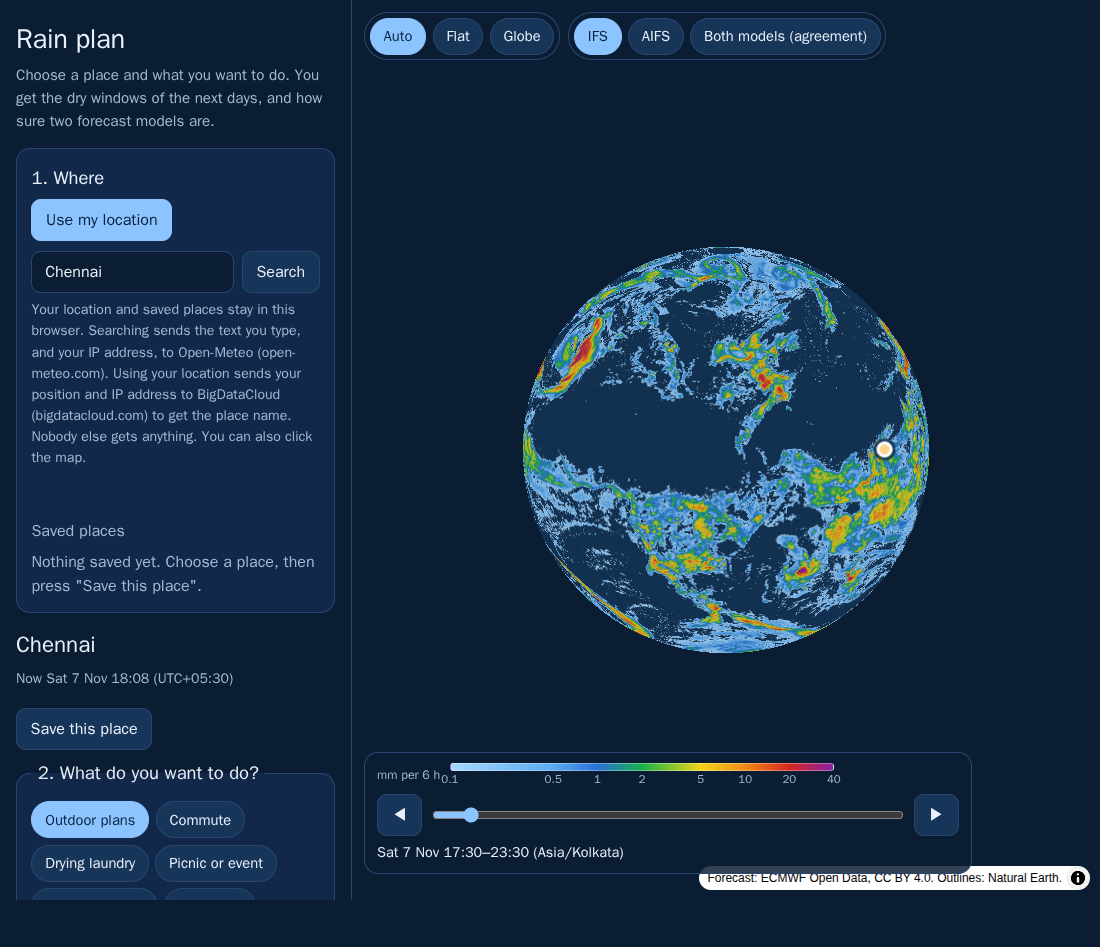
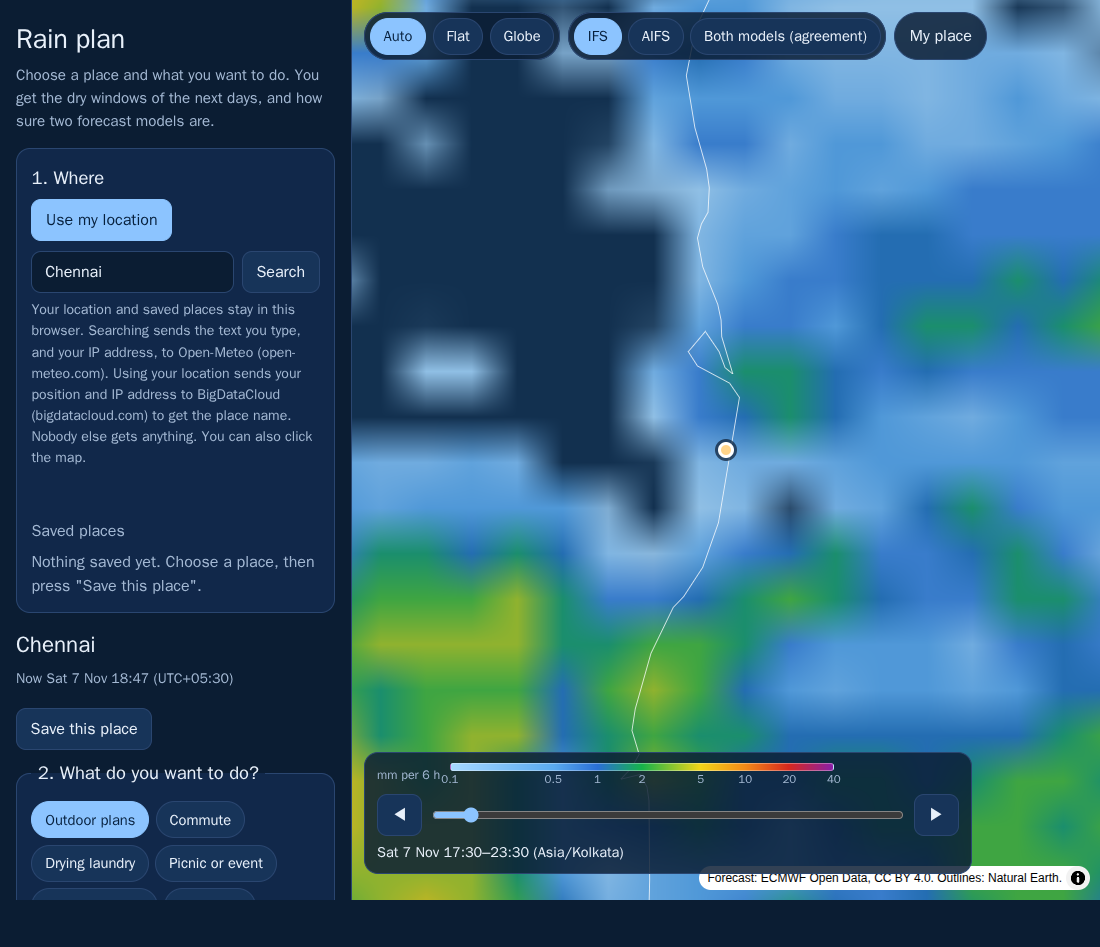
Step 9.3c-0: place name works with the real service, close fly-in by place kind, My place button, rotation off
- Reverse geocoder: the final host api-bdc.io (the documented host redirects to it and the policy blocked that, E030); shorter name;
  verified once with the REAL service in a real browser (Edge): "Rasipuram, Tamil Nadu, India".
- Fly-in lands at zoom 8 for the device location and 7 for a searched/saved/addressed place; a My place button recentres; rotation and
  tilt are off; a drag-inertia moveend no longer ends a new flight early.
- Tests: Node 53 passed, Python 105 passed; browser checks 9 of 9 in Chromium (mock) and in Edge (real Open-Meteo and BigDataCloud).
- Not done yet: the sharp, smooth rain at zoom 7-8 (PLAN-009 steps 9.3c-1 to 9.3c-3).

Claude-Session: https://claude.ai/code/session_01TFnA2TctcQwhqV8Sjabs29

diff --git a/frontend/src/mapcontrols.js b/frontend/src/mapcontrols.js
@@ -47,12 +47,15 @@ function swatch(colour) {
 }
 
 /**
- * Build the tools inside `root`. `handlers` = { onMode(id), onModel(id), onStep(step) }.
- * Returns { update({ model, mode, steps, step, when, note, legendKind }) }.
+ * Build the tools inside `root`. `handlers` = { onMode(id), onModel(id), onStep(step), onMyPlace() }.
+ * Returns { update({ model, mode, steps, step, when, note, legendKind, hasPlace }) }.
  */
 export function createControls({ root, cfg, manifest, options, selectedModel, handlers }) {
   const view = segmented('map-mode', 'Map view', MODES, 'auto', handlers.onMode);
   const model = segmented('map-model', 'Model shown on the map', options, selectedModel, handlers.onModel);
+  const myPlace = el('button', { class: 'my-place', text: 'My place', attrs: { type: 'button', 'aria-label': 'Fly back to the chosen place' } });
+  myPlace.disabled = true;
+  myPlace.addEventListener('click', () => handlers.onMyPlace());
   const note = el('p', { class: 'map-note', attrs: { role: 'status' } });
   const legend = el('ul', { class: 'legend', attrs: { 'aria-label': 'Map legend' } });
   const prev = el('button', { text: '◀', attrs: { type: 'button', 'aria-label': 'Previous 6-hour block' } });
@@ -67,7 +70,7 @@ export function createControls({ root, cfg, manifest, options, selectedModel, ha
   prev.addEventListener('click', () => move(-1));
   next.addEventListener('click', () => move(1));
   range.addEventListener('input', () => handlers.onStep(steps[Number(range.value)]));
-  fill(root, [el('div', { class: 'map-top' }, [view.node, model.node]),
+  fill(root, [el('div', { class: 'map-top' }, [view.node, model.node, myPlace]),
     el('div', { class: 'map-bottom' }, [note, legend, el('div', { class: 'timebar' }, [prev, range, next]), when])]);
 
   return {
@@ -78,6 +81,7 @@ export function createControls({ root, cfg, manifest, options, selectedModel, ha
       range.value = String(i);
       range.dataset.step = String(s.step);
       range.setAttribute('aria-valuetext', s.when);
+      myPlace.disabled = !s.hasPlace;
       prev.disabled = i === 0;
       next.disabled = i === steps.length - 1;
       when.textContent = s.when;

diff --git a/frontend/src/mapapp.js b/frontend/src/mapapp.js
@@ -29,13 +29,18 @@ export async function createMapApp(o) {
     onMode: (mode) => { state.mode = mode; view.setMode(mode); refresh(); },
     onModel: (model) => { state.model = model; refresh(); },
     onStep: (step) => setStep(step),
+    onMyPlace: () => {
+      if (!state.place) return;
+      const reduced = prefersReducedMotion((q) => window.matchMedia(q));
+      view.fly(state.place.lat, state.place.lon, flightPlan(reduced, cfg.map, state.place.source));
+    },
   } });
 
   async function refresh() {
     const choice = chooseFrame(manifest, state.model, state.step, labels);
     container.dataset.model = state.model ?? '';
     container.dataset.frame = choice.kind ? `${choice.kind}_${state.step}` : 'none';
-    controls.update({ steps, step: state.step, model: state.model, mode: state.mode, when: whenText(), note: choice.note, legendKind: choice.kind === 'agreement' ? 'agreement' : choice.kind ? 'rain' : null });
+    controls.update({ steps, step: state.step, model: state.model, mode: state.mode, when: whenText(), note: choice.note, legendKind: choice.kind === 'agreement' ? 'agreement' : choice.kind ? 'rain' : null, hasPlace: state.hasPlace });
     const url = choice.kind ? frameUrl(base, manifest, choice.kind, state.step) : null;
     if (url === state.url) return; // the picture is already there: do not load it again
     state.url = url;
@@ -53,8 +58,13 @@ export async function createMapApp(o) {
     state.hasPlace = true;
     view.showPlace(place.lat, place.lon);
     const reduced = prefersReducedMotion((q) => window.matchMedia(q));
-    if (shouldFly(source)) view.fly(place.lat, place.lon, flightPlan(reduced, cfg.map));
-    else view.recentre(place.lat, place.lon, !reduced);
+    if (shouldFly(source)) {
+      state.place = { ...place, source };
+      view.fly(place.lat, place.lon, flightPlan(reduced, cfg.map, source));
+    } else {
+      state.place = { ...place, source: state.place?.source ?? 'search' };
+      view.recentre(place.lat, place.lon, !reduced);
+    }
     refresh();
   }
 

diff --git a/frontend/src/mapview.js b/frontend/src/mapview.js
@@ -16,6 +16,7 @@ export function createMapView({ container, cfg, manifest, onClick, onProblem }) 
   const state = { mode: 'auto', marker: null };
   const map = new MapLibreMap({
     container, center: mapCfg.start.center, zoom: mapCfg.start.zoom, minZoom: mapCfg.min_zoom, maxZoom: mapCfg.max_zoom, renderWorldCopies: false,
+    dragRotate: false, pitchWithRotate: false, maxPitch: 0, touchPitch: false, // a weather map stays north-up and flat on the screen
     attributionControl: { compact: true, customAttribution: `Forecast: ${escapeHtml(source.name)}, ${escapeHtml(source.licence)}. Outlines: Natural Earth.` },
     style: { version: 8, projection: projectionSpec('auto', mapCfg), sources: {}, layers: [{ id: 'sea', type: 'background', paint: { 'background-color': mapCfg.sea_colour } }] },
   });
@@ -28,6 +29,8 @@ export function createMapView({ container, cfg, manifest, onClick, onProblem }) 
     data.center = `${c.lng.toFixed(4)},${c.lat.toFixed(4)}`;
     data.effective = effectiveView(state.mode, map.getZoom(), mapCfg);
   };
+  map.touchZoomRotate.disableRotation();
+  map.keyboard.disableRotation();
   map.on('move', reflect);
   map.on('error', (e) => onProblem(e.error ?? e));
   map.on('click', (e) => onClick(e.lngLat.lat, e.lngLat.lng));
@@ -79,6 +82,7 @@ export function createMapView({ container, cfg, manifest, onClick, onProblem }) 
 
   /** Fly to the place (or jump, with reduced motion); `plan` is from flightPlan(). data-flying says when the move is over. */
   function fly(lat, lon, plan) {
+    map.stop(); // end any drag inertia or earlier flight first, so its 'moveend' cannot mark THIS flight as finished
     data.flying = 'true';
     map.once('moveend', () => { data.flying = 'false'; reflect(); });
     const target = { center: [lon, lat], zoom: plan.zoom };

diff --git a/frontend/src/reverse.js b/frontend/src/reverse.js
@@ -10,10 +10,19 @@ export function reverseUrl(cfg, lat, lon) {
 
 const text = (value) => (typeof value === 'string' ? cleanName(value) : null);
 
-/** Reply -> 'Rasipuram, Tamil Nadu, India' (the most local name, region, country; empty or repeated parts left out), or null. */
+const MAX_COUNTRY_CHARS = 20;
+
+/** The country as a short text: its name, or its code when the name is long ("United Kingdom of Great Britain and Northern Ireland" -> "GB"). */
+function country(data) {
+  const name = text(data.countryName);
+  if (name && name.length <= MAX_COUNTRY_CHARS) return name;
+  return typeof data.countryCode === 'string' && /^[A-Za-z]{2,3}$/.test(data.countryCode) ? data.countryCode.toUpperCase() : name;
+}
+
+/** Reply -> 'Rasipuram, Tamil Nadu, India' (local name, city, region, country; empty or repeated parts left out), or null. */
 export function parseReverse(data) {
   if (data === null || typeof data !== 'object') return null;
-  const parts = [text(data.locality) ?? text(data.city), text(data.principalSubdivision), text(data.countryName)].filter(Boolean);
+  const parts = [text(data.locality), text(data.city), text(data.principalSubdivision), country(data)].filter(Boolean);
   const unique = parts.filter((p, i) => parts.findIndex((q) => q.toLowerCase() === p.toLowerCase()) === i);
   return unique.length ? cleanName(unique.join(', ')) : null;
 }

diff --git a/frontend/src/style.css b/frontend/src/style.css
@@ -100,6 +100,7 @@ footer { padding-top: .5rem; }
 /* map tools (floating on the map) */
 .map-tools { position: absolute; inset: 0; pointer-events: none; z-index: 2; }
 .map-top { position: absolute; top: .75rem; left: .75rem; right: 4rem; display: flex; gap: .5rem; flex-wrap: wrap; pointer-events: auto; }
+.my-place { background: var(--glass); border-radius: 999px; padding: .4rem .9rem; }
 .map-top .seg { background: var(--glass); padding: .3rem; border-radius: 999px; border: 1px solid var(--line); margin: 0; min-width: 0; }
 .map-bottom { position: absolute; left: .75rem; bottom: 1.6rem; width: min(38rem, calc(100% - 1.5rem)); display: flex; flex-direction: column; gap: .4rem; pointer-events: auto; background: var(--glass); border: 1px solid var(--line); border-radius: 14px; padding: .6rem .75rem; }
 .map-note { margin: 0; color: #ffd48a; font-size: .88rem; }

diff --git a/frontend/src/mapstate.js b/frontend/src/mapstate.js
@@ -68,9 +68,9 @@ export function effectiveView(mode, zoom, cfg) {
   return zoom >= cfg.fly.zoom ? 'flat' : 'morph';
 }
 
-/** How to move to a chosen place: animated flight, or an instant jump when the system asks for reduced motion. */
-export function flightPlan(reducedMotion, cfg) {
-  return { zoom: cfg.fly.zoom, duration: reducedMotion ? 0 : cfg.fly.duration_ms, animate: !reducedMotion };
+/** How to move to a chosen place: animated flight to the zoom for that kind of place, or an instant jump when the system asks for reduced motion. */
+export function flightPlan(reducedMotion, cfg, source) {
+  return { zoom: cfg.fly.zoom_by_source?.[source] ?? cfg.fly.zoom, duration: reducedMotion ? 0 : cfg.fly.duration_ms, animate: !reducedMotion };
 }
 
 export function prefersReducedMotion(matchMedia) {

diff --git a/docs/plans/PLAN-009.md b/docs/plans/PLAN-009.md
@@ -1,0 +1,68 @@
+# PLAN-009 — Rain drawn in the browser at screen sharpness; a close fly-in; the place name fixed (steps 9.3c-0 to 9.3c-4)
+
+- Drafted: 2026-11-07 13:09 UTC (`date -u` read while drafting)
+- Session: `3e56a452-e5f8-4bb9-b353-63bad43748f4`; first prompt 2026-11-06T18:19:13Z; deadline 2026-11-09T18:19:13Z; about 18.8 h used, about 53.2 h left
+- Approval: **approved by the user through plan mode, 2026-11-07 13:12 UTC** (written into this file at that time, clock read by the script).
+- **Replaces:** PLAN-008 assumption A19 ("smooth up-sampling of a 1440 px picture is enough at every zoom") and step 9.3b-3. Steps 9.3b-1 and 9.3b-2 stay done. PLAN-007 steps 9.4 (browser checks in three engines, real GPU) and 9.5 (design pass) stay as written and follow this plan.
+
+## Context (why this plan exists)
+- **User feedback, 2026-11-07 ~13:05 UTC (their own Firefox, with a screenshot):** "when i zoom in it still is showing in blocks not smooth"; "the 2d (flat) is not working, because when i use the location it has to be accurate and zoom to that location"; "do u think people will like it? NOPE they will not". The screenshot also shows the map drawing in their Firefox, the name box still saying "Your location", and the marker off-centre.
+- **What I checked before planning (read-only/measured today, ERRORS E030 and E031):**
+  1. At city zoom (7) in Edge with the real GPU: the rain picture is smooth but blurry with stair-stepped dry edges; the agreement picture is a hard-edged 3-class picture and shows blocks. One 0.25 degree cell (about 28 km) is about 45 screen pixels wide at zoom 7; **no pre-made picture can look sharp at that magnification**.
+  2. The fly-in ends at zoom 4.5 (regional). The user then scroll-zooms by hand, which zooms around the mouse and moves the marker off-centre; that is why the place did not look "accurate".
+  3. A real call to the reverse geocoder: `api.bigdatacloud.net` answers `307` to `api-bdc.io`, which my security policy blocks, so the name never appears (my tests used a mock). The redirect target works and returns CORS `*`.
+  4. The default time-bar block is correct in Edge (`ifs_30`); the user's screenshot at Fri 6 Nov 12:00-18:00 is not reproduced (they probably moved the slider).
+- **Intended outcome:** when a person looks at their place, the rain is smooth and sharp at any zoom, accurate to the model's own cell values; "Use my location" lands close on the place and names it; the pre-made pictures remain for the globe and the wide view.
+
+## Design (what is built, in plain words)
+- **Browser-side drawing ("live layer")** for the flat map from a configured zoom (about 4.5) upwards: for the part of the world on screen, the browser reads the **exact cell values from the point tiles it already uses for the plan** (about 7 kB per 4 degree tile, a handful to a few dozen tiles, cached), interpolates them smoothly between cell centres (bicubic, clamped so it never overshoots) at screen resolution, and colours each pixel with a **continuous colour ramp** (no bands) with a soft edge where rain starts. The picture is handed to MapLibre as an image source and redrawn when the view, model or block changes. While it is being drawn, the pre-made picture stays visible (no gaps).
+- **Agreement** is drawn the same way: each model's value becomes a soft "wet" strength around the plan's threshold; blue = both wet, orange = they disagree, strength = opacity; edges are smooth instead of blocky.
+- **Honest limit:** the forecast cells are 0.25 degree; the live layer shows the models' own values smoothly between cell centres and creates no detail that the models do not have. At cell centres it equals the stored value exactly (tested).
+- **Fly-in:** by source: device location zoom 8 (about 300 km across), search / saved place / address zoom 7; a click on the map recentres only. A "My place" button on the map flies back to the chosen place. Rotation and tilt are switched off (they only confuse a weather map).
+- **Not chosen:** a WebGL shader layer (faster but a lot more code), vector contour tiles (server work and size), bigger pre-made pictures (4096 px frames would be several MB each), 50 m outlines changes (already done).
+
+## Assumptions
+- **A22:** the browser can interpolate and colour a half-resolution viewport (about 500 x 350 pixels, each stretched to 2 screen pixels) in well under 150 ms in the user's Firefox and in Edge. To be measured in 9.3c-3; if too slow the pixel count is reduced (config), not the method.
+- **A23:** the tiles needed for the view stay below about 150 per render at the live zoom limit (4.5: about 8 x 5 = 40 tiles, about 280 kB, cached after the first view); above the limit the pre-made picture is used.
+- **A24:** MapLibre 6.16's image source (`updateImage` with a blob URL, same-origin, `img-src blob:` already allowed) switches pictures without flicker when the new picture is loaded before the old is hidden; to be checked in the real browsers.
+
+## Steps (one at a time; Docker tests, line counts and root check before every commit; every step has a security note)
+
+**9.3c-0 Quick fixes the user saw.** (a) `config/frontend.json` `reverse_geocoder.url` -> `https://api-bdc.io/data/reverse-geocode-client`; `config/headers.conf` connect-src host the same; the config-consistency test keeps them equal; privacy line still names BigDataCloud. (b) `frontend/src/reverse.js` `parseReverse`: local name, city, region, and the country CODE when the country name is long (London: "City of Westminster, London, England, GB"). (c) `frontend/src/mapstate.js` `flightPlan(reduced, cfg, source)` with `fly.zoom_by_source` in config; `max_zoom` 10; `frontend/src/mapview.js`: rotation and tilt off (`dragRotate: false`, `maxPitch: 0`, touch rotation off); a "My place" button (in `mapcontrols.js`) that flies back to the chosen place. (d) tests for all of it, and ONE real call to the reverse geocoder from a real browser (Chromium Docker and Edge) with a public test coordinate, recorded.
+DONE-CHECK: Docker `tests` and `frontend-tests` pass; the real-browser run shows the name in the box; the fly-in ends at zoom 8 on the place within 0.01 degrees (read from `data-zoom`/`data-center`); screenshots.
+Security note: the host in the policy is replaced, not added (still two outside hosts); a test fails if the policy and the config differ.
+
+**9.3c-1 The drawing core (pure functions, tested).** New `frontend/src/live.js`: bicubic (Catmull-Rom) sampling of a cell-value accessor with clamping to the neighbouring range, Mercator pixel -> latitude/longitude, a continuous colour look-up table from the colour stops in `config/frontend.json` (log scale, soft edge from `fade_from_mm`), and the soft agreement. Settings (soft width, ramp resolution, canvas scale) in `config/frontend.json` `map.live`.
+DONE-CHECK: Node tests: at a cell centre the picture value equals the stored value exactly; a linear ramp is reproduced; no value outside the range of its neighbours; the date-line wrap; north at the top and the Mercator rows at the right latitudes (compared with Python numbers from `scripts/make_js_fixtures.py`); colour table edges equal the stops; agreement strength is 0 for dry-dry, 1 for wet-wet, split for one wet; mutation checks as in earlier steps.
+Security note: pure functions, no I/O.
+
+**9.3c-2 The data window.** New `frontend/src/livedata.js`: which tiles cover the visible bounds (`tiles.js` `locate`/`tileUrl`), fetch and decode them with the existing size-limited reader and cache (`decodeTile`, the page's tile cache), a value accessor for one layer (model + block, via the manifest's `layer_offset` and steps), a limit on tiles per render, a stale-render guard.
+DONE-CHECK: Node tests with the Python-made fixture tiles (cell values equal Python's); a view crossing a tile edge; too many tiles -> "use the picture"; failed tile -> clean fallback.
+Security note: tiles stay untrusted (the existing header, length and size checks apply); no new host.
+
+**9.3c-3 Map integration.** `frontend/src/mapview.js`: a second image layer (the live picture) below the outlines, shown only in the flat view above the live zoom; updated after `moveend` (debounced), model, block and place changes; the pre-made picture stays until the new live picture has loaded; blob URLs are revoked. `frontend/src/mapapp.js`: connects view changes to `livedata` + `live`; shows a small "sharpening..." state in `data-` attributes for tests. The legend, attribution and time bar are unchanged; the page's smoothing line is updated.
+DONE-CHECK: `frontend-build`; in Edge (real GPU) and Chromium (software) the render time per view is measured and printed (target under 150 ms), screenshots at zoom 5, 7 and 8 of London and Chennai for IFS, AIFS and the agreement; no console or policy error; the user's Firefox look.
+Security note: blob URLs of our own canvas only; `img-src blob:` is already in the policy.
+
+**9.3c-4 Browser checks and records.** Add scenarios to `frontend/tools/browser_checks.mjs` (live layer on at close zoom, off when zoomed out and in globe mode, falls back when a tile fails, My place button, rotation off), run in the three engines (Firefox and WebKit in Docker have no WebGL, so they test the message path; Edge and Chromium test the map), Edge screenshots, load timing; PROGRESS, DECISIONS (D32 corrected, new D35), E027/E030/E031 results, README, SECURITY; commit. The user looks at http://localhost:8080 in their Firefox.
+DONE-CHECK: all browser scenarios pass; the user's verdict recorded.
+
+(PLAN-007 steps 9.4 and 9.5 follow unchanged. Step 9.4's map scenarios are partly done here; what is left of it is the three-engine run with the final page and the real-GPU run.)
+
+## Critical files
+Modify: `frontend/src/{mapview,mapapp,mapcontrols,mapstate,reverse}.js`, `config/frontend.json`, `config/headers.conf`, `frontend/index.html` (one line), `tests/frontend/*`, `tests/hygiene/test_config_consistency.py`, `frontend/tools/browser_checks.mjs`. New: `frontend/src/live.js`, `frontend/src/livedata.js`, `tests/frontend/live.test.mjs`. Reuse: `tiles.js` (`locate`, `tileUrl`, `decodeTile`, size-limited gunzip), `data.js` (`bufferGetter`, `maxTileBytes`), `mapstate.js` (`chooseFrame`, `frameStep`), the colour scale and `fade_from_mm` idea from `backend/frames.py`, `scripts/make_js_fixtures.py` (Python answers for the tests), `frontend/tools/{browser_checks,screenshots,load_timing}.mjs`.
+
+## Time (estimates, not measurements)
+Now 18.8 h. 9.3c-0 about 0.75 h, 9.3c-1 about 1.5 h, 9.3c-2 about 1 h, 9.3c-3 about 2 h, 9.3c-4 about 1.5 h: about 7 h, so about hour 26. Then PLAN-007 steps 9.4 (about 1 h left) and 9.5 (about 4 h): the map and design work ends around hour 31. The **24 h warning (2026-11-07 18:19 UTC) falls during this plan**; steps 10-12 follow as planned; the last 8 hours stay reserved; no new features after hour 64.
+
+## Records to write after approval (before 9.3c-0)
+`docs/plans/PLAN-009.md` (this text with the approval time read from the clock), PROGRESS (current plan, rows 9.3c-0..4, PLAN-008 "A19 superseded, 9.3b-3 failed the user's look"), E031 and E030 stay open until their fixes are verified.
+
+## Security note (this plan)
+The tiles are the same untrusted files the plan already reads (header, length and size checks, size-limited gunzip). The live picture is made from them in memory and shown through a blob URL of our own, revoked after use. Two outside hosts remain (the geocoder and the reverse geocoder, whose host is replaced by its final one). No personal data is added. Zooming in fetches more small tiles: capped per render and cached.
+
+## Verification (end to end)
+Docker `tests`, `frontend-tests`, `frontend-check`, `frontend-build`; Node tests against Python-made fixtures; real browsers: Edge with the real GPU (render times, screenshots at zoom 5/7/8), Chromium in Docker, and the user's own Firefox; the real reverse-geocoder call once; the user's verdict on the look at city zoom.
+
+## Not doing
+WebGL shader layer, contour/vector tiles, more or bigger pre-made pictures, reverse geocoding for map clicks (D32), changing any number the plan computes.

diff --git a/docs/PROGRESS.md b/docs/PROGRESS.md
@@ -45,8 +45,12 @@
 | 2026-11-07 00:42 | Checkpoint requested by the user after their feedback; all markdown files updated (commit time in `git log`) | 6.39 h | 65.61 h |
 | 2026-11-07 10:41 | The user was away about 10 hours; they replied with the layout (1/4 plan + 3/4 globe) and approved PLAN-007; clock read with `date -u` | 16.37 h | 55.63 h |
 | 2026-11-07 12:11 | PLAN-008 approved (sharper pictures); 17.87 h used | 17.87 h | 54.13 h |
+| 2026-11-07 13:12 | PLAN-009 approved (browser-side drawing, close fly-in, name fix); 18.88 h used | 18.88 h | 53.12 h |
 
 ## Current plan
+**`docs/plans/PLAN-009.md`** - approved by the user 2026-11-07 13:12 UTC: the rain is drawn in the browser at screen sharpness from the exact tile values (live layer above zoom 4.5), the fly-in goes close (zoom 8 for the device location), the place name is fixed (E030) and a "My place" button is added (steps 9.3c-0 to 9.3c-4). It supersedes PLAN-008 assumption A19 and its step 9.3b-3 (the sharper pictures did not pass the user's look, E031); PLAN-007 steps 9.4 and 9.5 follow.
+
+`docs/plans/PLAN-008.md` (steps 9.3b-1 and 9.3b-2 done; A19 and 9.3b-3 superseded by PLAN-009):
 **`docs/plans/PLAN-008.md`** - approved by the user 2026-11-07 12:11 UTC: sharper rain pictures (step 9.3b: measure, then smooth higher-resolution frames) after the user's feedback "the image does not look good at all"; it supersedes PLAN-007 assumption A17 (E027) and adds step 9.3b; PLAN-007 steps 9.4 and 9.5 remain in force.
 
 `docs/plans/PLAN-007.md` (still the plan for the map and the design pass; its A17 is superseded by PLAN-008):
@@ -88,7 +92,12 @@
 | 9.3 | Map module, controls, 1/4 + 3/4 layout, spike removed (PLAN-007) | **in progress** (11:07 UTC): built and working in Chromium; open: frame quality (E027), real-service check of D32 |
 | 9.3b-1 | Gate Q1: measure and look at four ways to make the rain pictures sharper (PLAN-008) | **done** 2026-11-07 12:27 UTC (commit "Step 9.3b-1: ..."); D34 |
 | 9.3b-2 | Build the sharper frames: smooth up-sampling, agreement per pixel, config, tests, re-export (PLAN-008) | **done** 2026-11-07 12:39 UTC (commit "Step 9.3b-2: ..."); D34 results |
-| 9.3b-3 | Look and confirm (Chromium, Edge, the user), records (PLAN-008) | **waiting for the user's look** at http://localhost:8080 (Edge and Chromium pictures done) |
+| 9.3b-3 | Look and confirm (Chromium, Edge, the user), records (PLAN-008) | **failed the user's look** (blocky when zoomed in, E031); superseded by PLAN-009 |
+| 9.3c-0 | Quick fixes: reverse-geocoder host and name, fly-in zoom by source, rotation off, "My place" button (PLAN-009) | **done** 2026-11-07 13:18 UTC (commit "Step 9.3c-0: ..."); D32 corrected, D35, E030 closed |
+| 9.3c-1 | Drawing core: smooth sampling, continuous colours, soft agreement (pure, tested) (PLAN-009) | not started |
+| 9.3c-2 | Data window: tiles for the view and a layer accessor (PLAN-009) | not started |
+| 9.3c-3 | Map integration: live layer above zoom 4.5, fallback picture (PLAN-009) | not started |
+| 9.3c-4 | Browser checks in the engines, Edge look, records (PLAN-009) | not started |
 | 9.4 | Browser checks in three engines, real GPU in Edge, records (PLAN-007) | not started |
 | 9.5 | Design pass with the frontend-design skill, user review (PLAN-007) | not started |
 | 10 | Provenance + honesty strip, final policy (PLAN-006) | not started |
@@ -98,7 +107,7 @@
 Note: the built-in todo/task-list tool is not available in this session's tool set, so this table is the only live step list.
 
 ## Status (live, rewritten in the housekeeping at ~23:03 UTC)
-- **Done:** steps 1-8, 9.1, 9.2 and the security steps S1-S5 (step 8: the plan page runs on localhost:8080 and was checked in Chromium, Firefox and WebKit); the pipeline (fetch, process, validate, export) runs in Docker; the front end is still a one-page spike on two local sites, now reading an exported frame; **next is the user's verdict on the pictures (9.3b-3), then step 9.4** (browser checks in three engines incl. the map scenarios).
+- **Done:** steps 1-8, 9.1, 9.2 and the security steps S1-S5 (step 8: the plan page runs on localhost:8080 and was checked in Chromium, Firefox and WebKit); the pipeline (fetch, process, validate, export) runs in Docker; the front end is still a one-page spike on two local sites, now reading an exported frame; **next is step 9.3c-1** (PLAN-009: the drawing core), then 9.3c-2..4, then PLAN-007 steps 9.4 and 9.5.
 - **Tests (step 9.3b-2):** Python 105 passed, Node 53 passed. Earlier: official command `docker compose -f docker/compose.yaml run --rm tests` = 99 passed; `... run --rm frontend-tests` = 41 passed (at step 8); `... run --rm frontend-check` = 8 places x 8 activities match; `BROWSER_NAME=<engine> ... run --rm browser-checks` = 8 of 8 scenarios in chromium, firefox and webkit.
 - **Git:** branch `main`, 25 commits, no remote (GitHub login and repo creation are plan step 11 and need the user's approval and link).
 - **Records:** this housekeeping checked every markdown file against the others; its findings and fixes are listed in the last section of this file.
@@ -378,3 +387,10 @@ Files: `backend/frames.py` (rewritten: palette PNG writer with per-row filters, 
 - "when i zoom in it still is showing in blocks not smooth"; "the 2d (flat) is not working, because when i use the location it has to be accurate and zoom to that location"; "do u think people will like it? NOPE". The screenshot (Flat + both models + the UK) also shows: **the map draws in the user's Firefox** (D23 bet held: WebGL works there; the user runs an ad blocker, extensions icons visible), the name box still says "Your location" (E030), the time bar at Fri 6 Nov 12:00-18:00 (not reproduced, see E031), the marker off-centre (caused by scroll-zooming around the mouse).
 - Checked before answering (Edge, real GPU): zoom 7 pictures `docs/evidence/edge/step9-3b-zoom-{ifs,both}.png`; real BigDataCloud call (E030); default block (`ifs_30`, correct).
 - Consequence: PLAN-008's step 9.3b-3 did not pass the user's look. A revised plan (PLAN-009) is needed; E027 stays open and E031 is added.
+
+## Step 9.3c-0 done-check results (run 2026-11-07 13:18 UTC; 18.99 h used)
+Files: `config/frontend.json` (reverse host, `map.fly.zoom_by_source`, `max_zoom` 10), `config/headers.conf`, `frontend/src/{reverse,mapstate,mapview,mapcontrols,mapapp,style}`, `frontend/tools/browser_checks.mjs`, `tests/frontend/{places,mapstate}.test.mjs`. Decisions D32 corrected, D35; E030 closed.
+- **Tests:** Node 53 passed (the changed tests: the real London answer, a bad country code, the zoom by source, the zoom limits), Python 105 passed.
+- **Real browsers:** Chromium in Docker (MOCK geocoders): 9 of 9 scenarios, including "location allowed" (name, search box, the map landing at zoom 8 on 11.46 N 78.19 E within 0.01 degrees, flat view) and the new "my place button" (drag away, press the button, back within 0.01 degrees). Edge with the real GPU and the REAL Open-Meteo and BigDataCloud services: 9 of 9, the device position was named "Rasipuram, Tamil Nadu, India".
+- **Found on the way:** the preview must be restarted after a policy change (ENVIRONMENT); a stale `moveend` after drag inertia (fixed with `map.stop()`).
+- **Not verified:** the user's Firefox with these changes; the visual sharpness at zoom 7-8 (still the pre-made picture: that is steps 9.3c-1 to 9.3c-3).

diff --git a/docs/ERRORS.md b/docs/ERRORS.md
@@ -33,7 +33,7 @@ Summary (update with every change). `fix worked / fix tried` counts only what ac
 | E027 | PLAN-007 assumption A17 ("720 px frames are enough") was wrong: at the fly-in zoom each frame pixel is a visible 0.5 degree block (the user's screenshot: "it does not look good at all"); I had already noticed the blockiness in step 9.1 and treated it as a design-pass item | 1 | 1/1 (PLAN-008 step 9.3b built and measured; the user's verdict is the final check) |
 | E028 | Two CSS bugs found only by looking at the screenshot of the new layout: MapLibre's own stylesheet overrides `position: absolute` on the map element (map had zero height), and `display: grid` on the message overrode the `hidden` attribute ("Loading the map" stayed up) | 1 | 3/3 (more specific selector; `[hidden] {display:none !important}`; legend bar: `.legend .legend-gradient`) |
 | E029 | The preview container kept serving a deleted `data/site` folder after a re-export recreated it: manifest 404 and an empty map in the screenshot run (found because the run reported ok:false) | 1 | 1/1 (restart the preview after every export) |
-| E030 | The real BigDataCloud endpoint answers 307 to a different host (`api-bdc.io`), which my security policy blocks, so "Your location" never became a place name; my tests used a mock and could not see it | 1 | 0/0 (fix planned in PLAN-009 step 0) |
+| E030 | The real BigDataCloud endpoint answers 307 to a different host (`api-bdc.io`), which my security policy blocks, so "Your location" never became a place name; my tests used a mock and could not see it | 1 | 1/1 (final host in config and policy; real call checked in Edge) |
 | E031 | The sharper pictures (1440 px, gradient) are still blocky when the user zooms to city level; the agreement picture is hard-edged classes; the fly-in stops at a regional zoom so the user has to zoom by hand (user: "when i zoom in it still is showing in blocks ... people will not like it") | 1 | 0/0 (revised plan PLAN-009) |
 
 ---
@@ -289,3 +289,6 @@ Summary (update with every change). `fix worked / fix tried` counts only what ac
 - Root cause: PLAN-008 assumed (A19) that smooth up-sampling of a pre-made 1440 px picture is enough at every zoom. A pre-made picture cannot be sharp when magnified 40 times; I only looked at zoom 4.5 and 3.5 and never at the zoom a person uses to see their own street.
 - Fix: PLAN-009: draw the rain in the browser at screen resolution from the exact cell values (the point tiles), smooth interpolation, continuous colour ramp, soft agreement edges; the pre-made pictures stay for the globe and the wide view; the fly-in goes to a close zoom for an accurate place.
 - Not reproduced: the time bar at the first block in the user's screenshot (in Edge the bar starts on the block under way, `ifs_30`, checked today); the user probably moved the slider; to be confirmed.
+
+- **E030 update (2026-11-07 13:18 UTC):** the final host `api-bdc.io` is in the config and in the policy; the real call was made from a real browser (Edge, real GPU) and named the test position "Rasipuram, Tamil Nadu, India". On the way I hit the same trap as E029 once more: the preview container reads `headers.conf` only at start, so the first real run still blocked the host (the console said so) until the preview was restarted. Fix tried 1, worked 1.
+- **Also found while testing (not an error in the page):** a drag that ends in inertia fires a `moveend` after a new flight has started, which marked the flight as finished too early (`data-flying`); `map.stop()` at the start of a flight fixes it (the check "My place" had caught it).

diff --git a/docs/DECISIONS.md b/docs/DECISIONS.md
@@ -357,3 +357,12 @@ The README's "known limitations" (step 12) must list every item above and every 
 - **Cost for the visitor (Edge, real GPU, `load_timing.mjs`):** first visit transfers 1.29 MB (was 0.68 MB: the map code with 50 m outlines 538 kB gzipped plus one 380 kB picture) and draws the map at about 1.5 s (was 1.2 s); a repeat visit is 1 network request and 0.45 s (cached for a year, D33). On a slow mobile connection the first visit will take several seconds longer than before.
 - **Found by a test, kept as a stated limit:** at 1440 px the picture's pixel centres fall between grid cell centres, so a LONE single-cell peak is drawn at about a quarter of its value (a 5 mm cell looks like about 1.25 mm). Smooth rain fields are unaffected and the plan reads exact cell values. The test now says so; the page says "a single small spot can look lighter on it". Alternatives not taken: 2048 px (834 kB palette frames), shifting the sampling by half a pixel (a small systematic position error).
 - **Visible change for the user:** hard colour bands became a smooth gradient (legend is a gradient bar, values 0.1 to 40 mm per 6 h), soft edge where rain starts, 50 m coastlines.
+
+### D32 correction (2026-11-07 13:18 UTC, E030)
+- The host in config and in the security policy is **`api-bdc.io`** (the documented `api.bigdatacloud.net` answers `307` to it). Still two outside hosts; the consistency test keeps config and policy equal. The name is now: local name, city, region, country (a long country name becomes its code), e.g. "City of Westminster, London, England, GB". Checked against the REAL service in a real browser (Edge, real GPU): the device position at 11.46 N 78.19 E was named "Rasipuram, Tamil Nadu, India".
+
+## D35 — The fly-in goes close to the chosen place, by kind of place; rotation off; a "My place" button
+- 2026-11-07 13:18 UTC. Decided by: **AI** inside the approved PLAN-009 (user's words: "when i use the location it has to be accurate and zoom to that location"); the numbers are config (`config/frontend.json` `map.fly.zoom_by_source`) and can be changed without code.
+- Chosen: after the globe flattens the flight goes on to **zoom 8** for the device location (about 300 km across on a 1000 px map), **zoom 7** for a searched place, a saved place and a page address; a click on the map only recentres (no flight). `max_zoom` is 10. Rotation and tilt are switched off (`dragRotate`, `pitchWithRotate`, `touchPitch`, keyboard and touch rotation). A **"My place"** button on the map flies back to the chosen place at its zoom (scroll-zooming moves the view around the mouse, so the place drifts off-centre; the button recentres it).
+- Verified in real browsers (Chromium Docker with mock services; Edge with the REAL Open-Meteo and BigDataCloud): the flight ends flat at zoom 8.000 centred on the place within 0.01 degrees; "My place" returns there after a drag.
+- Checkable bet: people see their own place without zooming by hand. Result: pending (the user's look).

diff --git a/docs/ENVIRONMENT.md b/docs/ENVIRONMENT.md
@@ -70,3 +70,7 @@ Everything below was found by running commands in this session. Times are UTC.
 - **New compose services:** `frontend-check` (no network; `data/site` and `data/check` read-only) and `browser-checks`, which uses `network_mode: service:preview` so the browser sees the site as `http://localhost:8080`, a secure context for every engine (geolocation and clipboard-type APIs need that). Engines in the Playwright image: Chromium 158.0.8127.18, Firefox 159.0, WebKit 27.2.
 - **Shell limits seen again:** a long heredoc passed to the Bash tool failed with "unexpected EOF"; the same text written with the file tool and run as a script worked. `docker compose run` and `git` print "LF will be replaced by CRLF" warnings on this Windows checkout (autocrlf); harmless, nothing was changed by them.
 - **Local sites now:** http://localhost:8080 (Docker preview, left running for the user) serves the plan page; the Vite testing site on :5173 was not started in this step.
+
+## 2026-11-07 13:18 UTC — preview server facts (step 9.3c-0, found by running)
+- The nginx preview reads `config/headers.conf` (Content-Security-Policy and the other headers) only when the container starts: after changing the file run `docker compose -f docker/compose.yaml up -d --force-recreate preview`, or a real browser keeps enforcing the old policy (seen: the new reverse-geocoder host was blocked until the restart). The same restart is needed after every export (E029).
+- Two real services were reached from the Docker browser container and from the host's Edge in the same checks (Open-Meteo geocoding, BigDataCloud reverse geocoding); both answered with CORS `*`.

diff --git a/docs/SECURITY.md b/docs/SECURITY.md
@@ -92,3 +92,7 @@ Could not check in step 6: how the policy behaves with an online geocoder (not a
 - **Map:** no third-party tiles or styles; frames are same-origin images whose paths the browser checks (safe pattern, no `..`, steps must match the model's steps); the attribution text MapLibre writes as HTML is built from the manifest after escaping `& < > \" '`; no global objects remain (the spike's `window.__map` is gone with the spike).
 - **Caching:** `immutable` only for names that change with the content (hashed assets and `?v=` data files); the page and manifest are revalidated. A stale cache cannot mix an old tile with a new manifest because the version is part of the tile address.
 - **Not checked:** the real BigDataCloud service (only a mock in tests so far); behaviour under the public host's header rules (step 11).
+
+### Step 9.3c-0 (2026-11-07 13:18 UTC)
+- The second outside host is now `api-bdc.io` (the final host of the BigDataCloud reverse geocoder; the documented host redirects to it, and a redirect to a host the policy does not allow is blocked by the browser). A redirect that is blocked is a safe failure: the page keeps "Your location". The consistency test fails if the policy and `reverse_geocoder.url` differ. Verified with the real service in Edge.
+- Rotation and tilt are off on the map; nothing else changed in the policy.
